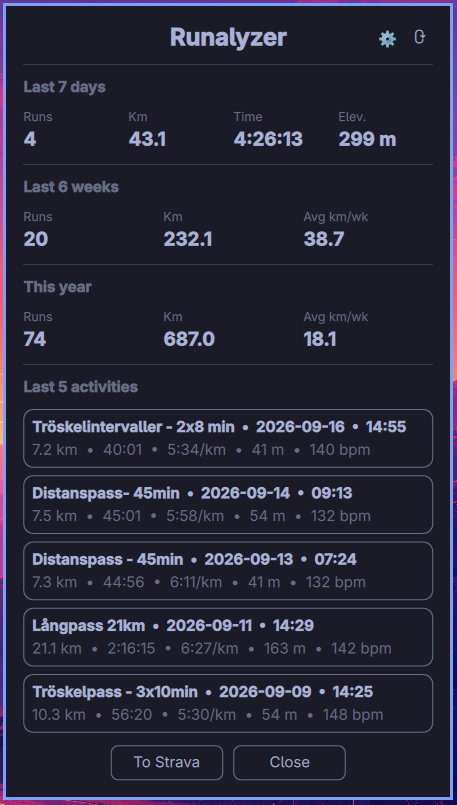
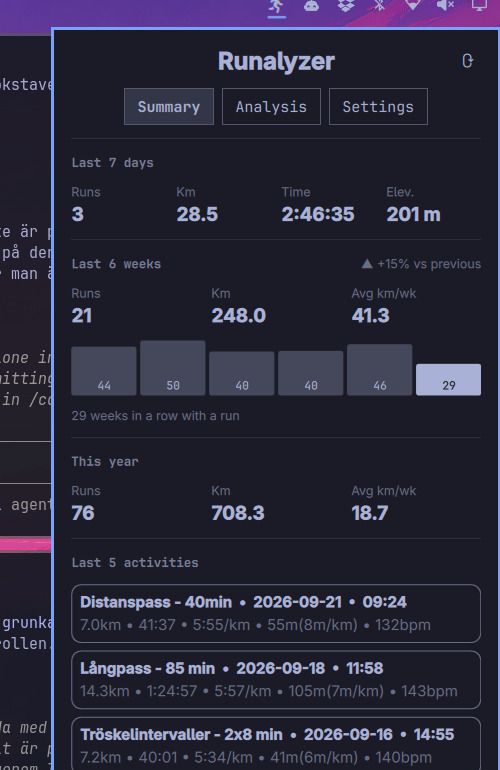
Prepare for public release
Documentation had drifted from the interface: the README still told
people to click a gear icon that was removed two releases ago, still
described four sections when there are nine, and its screenshot showed
a layout from before the tabs existed. All of it now matches what the
plugin does.

Adds a section on data handling, which also answers the marketplace
checklist: no credentials ship with the plugin, each user registers
their own Strava application, and everything stays in the user's home
directory.

Three robustness fixes ahead of strangers installing this. Strava's API
policy forbids caching their data beyond seven days; a normal sync
re-fetches the whole window and rewrites the file, but the path that
carries data forward when a sync fails could have kept it alive
indefinitely, so it now drops anything that has aged out. The OAuth
listener bound only the IPv4 loopback while sending the browser to
"localhost", which fails where that resolves to ::1 first. And a busy
port produced a raw traceback in the popup rather than an explanation.

Also removes six id declarations nothing referenced and the unused
moduleName property.

Claude-Session: https://claude.ai/code/session_01SWt8ZCuk5PKc82oVtzJMak

diff --git a/Widget.qml b/Widget.qml
@@ -8,7 +8,6 @@ Item {
   id: root
 
   property var bar
-  property string moduleName
   property var settings
 
   property bool popupOpen: false
@@ -317,10 +316,11 @@ Item {
       font.pixelSize: 10
     }
 
-    // Drawn inside the panel rather than as a ToolTip: Qt Quick Controls
-    // popups position themselves against the window origin, and the panel's
-    // window is full-screen, so a ToolTip lands in the corner of the display
-    // instead of under its heading.
+    // Drawn inside the panel rather than as a PanelToolTip. That component is
+    // fine as it stands — the short tooltips elsewhere in this file use it —
+    // but it neither wraps nor bounds its width, and giving it an explicit
+    // size to hold several sentences left it positioning against the window
+    // origin instead of the heading.
     Rectangle {
       visible: headingHover.containsMouse
       anchors.top: headingLabel.bottom
@@ -486,7 +486,6 @@ Item {
   }
 
   FileView {
-    id: statusFile
     path: root.statusFilePath
     watchChanges: true
     printErrors: false
@@ -496,7 +495,6 @@ Item {
   }
 
   FileView {
-    id: authFile
     path: root.authFilePath
     watchChanges: true
     printErrors: false
@@ -702,7 +700,6 @@ Item {
             }
 
             Rectangle {
-              id: refreshButton
               anchors.right: parent.right
               anchors.verticalCenter: parent.verticalCenter
               width: 22
@@ -1038,7 +1035,6 @@ Item {
             }
 
             Rectangle {
-              id: connectButton
               width: 90
               height: 28
               radius: 6
@@ -1565,7 +1561,6 @@ Item {
             visible: root.dataTabVisible
 
             Rectangle {
-              id: stravaButton
               width: 90
               height: 28
               radius: 6
@@ -1589,7 +1584,6 @@ Item {
             }
 
             Rectangle {
-              id: closeButton
               width: 90
               height: 28
               radius: 6

diff --git a/bin/strava-connect.py b/bin/strava-connect.py
@@ -15,6 +15,7 @@ import http.server
 import json
 import os
 import secrets
+import socket
 import sys
 import tempfile
 import time
@@ -91,10 +92,32 @@ def _make_handler(result, expected_state):
     return CallbackHandler
 
 
+class _LocalhostServer(http.server.HTTPServer):
+    # The redirect Strava sends the browser to says "localhost", which may
+    # resolve to ::1 before 127.0.0.1. Binding only the IPv4 loopback would
+    # then leave the browser unable to reach us at all.
+    address_family = socket.AF_INET6
+
+    def server_bind(self):
+        self.socket.setsockopt(socket.IPPROTO_IPV6, socket.IPV6_V6ONLY, 0)
+        http.server.HTTPServer.server_bind(self)
+
+
+def _listen(port, handler):
+    try:
+        return _LocalhostServer(("::1", port), handler)
+    except OSError:
+        # No usable IPv6 loopback on this host.
+        return http.server.HTTPServer(("127.0.0.1", port), handler)
+
+
 def run_oauth_listener(port, timeout, expected_state):
     result = _CallbackResult()
     handler = _make_handler(result, expected_state)
-    httpd = http.server.HTTPServer(("127.0.0.1", port), handler)
+    try:
+        httpd = _listen(port, handler)
+    except OSError as err:
+        return None, "port_busy: %s" % err
     deadline = time.time() + timeout
     while result.code is None and result.error is None:
         remaining = deadline - time.time()
@@ -172,6 +195,11 @@ def main():
     open_browser(authorize_url)
 
     code, error = run_oauth_listener(args.port, args.timeout, state)
+    if error and error.startswith("port_busy"):
+        print("Port %d is already in use, so the Strava login could not be "
+              "received. Close whatever is using it, or pass --port."
+              % args.port, file=sys.stderr)
+        return 1
     if error == "timeout":
         print("No login within the time limit", file=sys.stderr)
         return 1

diff --git a/tests/test_strava_sync.py b/tests/test_strava_sync.py
@@ -111,20 +111,36 @@ class WriteStatusTest(unittest.TestCase):
         )
         self.assertEqual(record["activities"], [{"id": 1}])
 
-    def test_keeps_previous_activities_when_a_sync_fails(self):
+    def keep_previous(self, activities):
         with tempfile.TemporaryDirectory() as tmp:
             path = os.path.join(tmp, "status.json")
-            sync.write_status(path, True, None, "", [{"id": 7}], "2026-09-18T10:00:00Z")
+            sync.write_status(path, True, None, "", activities, "2026-09-18T10:00:00Z")
 
             previous = sync.load_previous_state(path)
             sync.write_keep_previous(path, "rate_limited", "Slow down.", previous)
 
             with open(path) as handle:
-                record = json.load(handle)
+                return json.load(handle)
 
-        self.assertEqual(record["activities"], [{"id": 7}])
+    def test_keeps_recent_activities_when_a_sync_fails(self):
+        recent = {"id": 7, "date": datetime.now().date().isoformat()}
+        record = self.keep_previous([recent])
+
+        self.assertEqual(record["activities"], [recent])
         self.assertEqual(record["updatedAt"], "2026-09-18T10:00:00Z")
         self.assertEqual(record["error"], "rate_limited")
+
+    def test_drops_activities_past_the_cache_limit_when_a_sync_fails(self):
+        # Strava's API policy forbids holding their data longer than seven
+        # days, and a run of failed syncs must not quietly keep it alive.
+        today = datetime.now().date()
+        inside = {"id": 1, "date": (today - timedelta(days=6)).isoformat()}
+        outside = {"id": 2, "date": (today - timedelta(days=7)).isoformat()}
+        undated = {"id": 3}
+
+        record = self.keep_previous([inside, outside, undated])
+
+        self.assertEqual(record["activities"], [inside])
 
 
 if __name__ == "__main__":

diff --git a/bin/strava-sync.py b/bin/strava-sync.py
@@ -101,11 +101,25 @@ def load_previous_state(status_path):
     }
 
 
+# Strava's API policy forbids retaining their data in a cache for more than
+# seven days. A normal sync re-fetches the whole window and rewrites the file,
+# so nothing is ever held longer than the refresh interval. This path is the
+# exception: it carries yesterday's data forward when a sync fails, so it has
+# to drop anything that has aged out.
+CACHE_RETENTION_DAYS = 7
+
+
+def within_retention(activity, today=None):
+    day = (activity or {}).get("date") or ""
+    if len(day) != 10:
+        return False
+    cutoff = (today or datetime.now().date()) - timedelta(days=CACHE_RETENTION_DAYS - 1)
+    return day >= cutoff.isoformat()
+
+
 def write_keep_previous(status_path, error, help_text, previous_state):
-    write_status(
-        status_path, True, error, help_text,
-        previous_state["activities"], previous_state["updatedAt"],
-    )
+    kept = [a for a in previous_state["activities"] if within_retention(a)]
+    write_status(status_path, True, error, help_text, kept, previous_state["updatedAt"])
 
 
 def write_auth_expired(status_path):

diff --git a/README.md b/README.md
@@ -4,9 +4,10 @@ A bar widget for [Omarchy](https://omarchy.org) that shows your recent Strava
 running activities, weekly trends, and yearly totals — right in your status
 bar.
 
-![Runalyzer popup showing recent runs and weekly/yearly stats](assets/screenshot.jpg)
+![Runalyzer Summary tab: last 7 days, weekly trend with chart, this year, and recent runs](assets/screenshot.jpg)
+![Runalyzer Analysis tab: load and intensity, efficiency, stride and cadence, long run ceiling, rest and spacing](assets/screenshot-analysis.jpg)
 
-**Latest release:** [v0.8.1](https://github.com/grunkan/runalyzer/releases/tag/v0.8.1) — see all [releases](https://github.com/grunkan/runalyzer/releases) for the changelog.
+**Latest release:** [v1.0.0](https://github.com/grunkan/runalyzer/releases/tag/v1.0.0) — see all [releases](https://github.com/grunkan/runalyzer/releases) for the changelog.
 
 ## Features
 
@@ -28,8 +29,8 @@ bar.
   preceding period.
 - **Rest & spacing** — longest gap without running, and how often hard
   sessions landed on consecutive days.
-- Toggle any of the four sections on/off, and choose how many weeks the trend
-  covers and how many activities the list shows.
+- Switch any section off, and choose how many weeks the trend covers and how
+  many activities the list shows.
 
 All time windows are rolling: "last 7 days" is today plus the six days before
 it, and a trend of N weeks is today plus the preceding N×7−1 days. Changing a
@@ -78,12 +79,29 @@ Your credentials and tokens are stored locally in
 `~/.local/state/omarchy/strava/auth.json` (file permissions `600`) and are
 only ever sent directly to Strava's own API — nowhere else.
 
+## Tabs
+
+The popup is split into three tabs, chosen at the top:
+
+- **Summary** — last 7 days, the weekly trend with its chart, this year, and
+  your latest runs.
+- **Analysis** — load and intensity, the efficiency trend, stride and cadence,
+  the long run ceiling, and rest and spacing.
+- **Settings** — which sections appear, how many weeks and activities to
+  cover, the refresh interval, and max heart rate.
+
+The chosen tab is remembered while the shell is running, and every section can
+still be switched off individually from Settings.
+
+Each heading on the Analysis tab carries a small ⓘ. Hovering the heading
+explains how that section's figures are worked out, including the window it
+covers and the filter it applies.
+
 ## Configuration
 
-Click the gear icon in the popup to:
+Open the **Settings** tab to:
 
-- Toggle which of the four sections (Last 7 days / Weekly trend / This year /
-  Recent activities) are shown.
+- Choose which sections appear, grouped to match the Summary and Analysis tabs.
 - Set how many weeks the trend covers (2–12, default 6).
 - Set how many activities the list shows (3–10, default 5).
 - Set the auto-refresh interval in minutes (5–60, default 15).
@@ -92,24 +110,6 @@ Click the gear icon in the popup to:
 
 Settings are stored per widget in `~/.config/omarchy/shell.json` and survive
 reinstalling the plugin.
-
-## Tabs
-
-The popup is split into three tabs, chosen at the top:
-
-- **Summary** — last 7 days, the weekly trend with its chart, this year, and
-  your latest runs.
-- **Analysis** — the long run ceiling, the efficiency trend, and load and
-  intensity.
-- **Settings** — which sections appear, how many weeks and activities to
-  cover, the refresh interval, and max heart rate.
-
-The chosen tab is remembered while the shell is running, and each section can
-still be switched off individually from Settings.
-
-Each heading on the Analysis tab carries a small ⓘ. Hovering the heading
-explains how that section's figures are worked out, including the window they
-cover and the filter they apply.
 
 ## How the training metrics work
 
@@ -176,6 +176,21 @@ times are not available through its API, and computing them locally would mean
 one extra request per activity to read best efforts, plus caching. The
 estimates would also rest on training efforts that are rarely maximal, so they
 would need to be shown as wide ranges to be honest.
+
+## Your data
+
+The plugin ships no Strava credentials of its own. You register your own free
+Strava API application and paste its Client ID and Secret into the widget,
+which then holds them, and the tokens it exchanges them for, in
+`~/.local/state/omarchy/strava/auth.json` with file permissions `600`.
+
+Activity data is written to `status.json` in the same directory. Every sync
+re-fetches the whole window and rewrites that file in full, so nothing is kept
+beyond your refresh interval; if a sync fails, anything older than seven days
+is dropped rather than carried forward. Access is read-only, data is shown
+only to you, and nothing is sent anywhere except to Strava's own API.
+
+Runalyzer is not affiliated with, endorsed by, or sponsored by Strava.
 
 ## License
 
